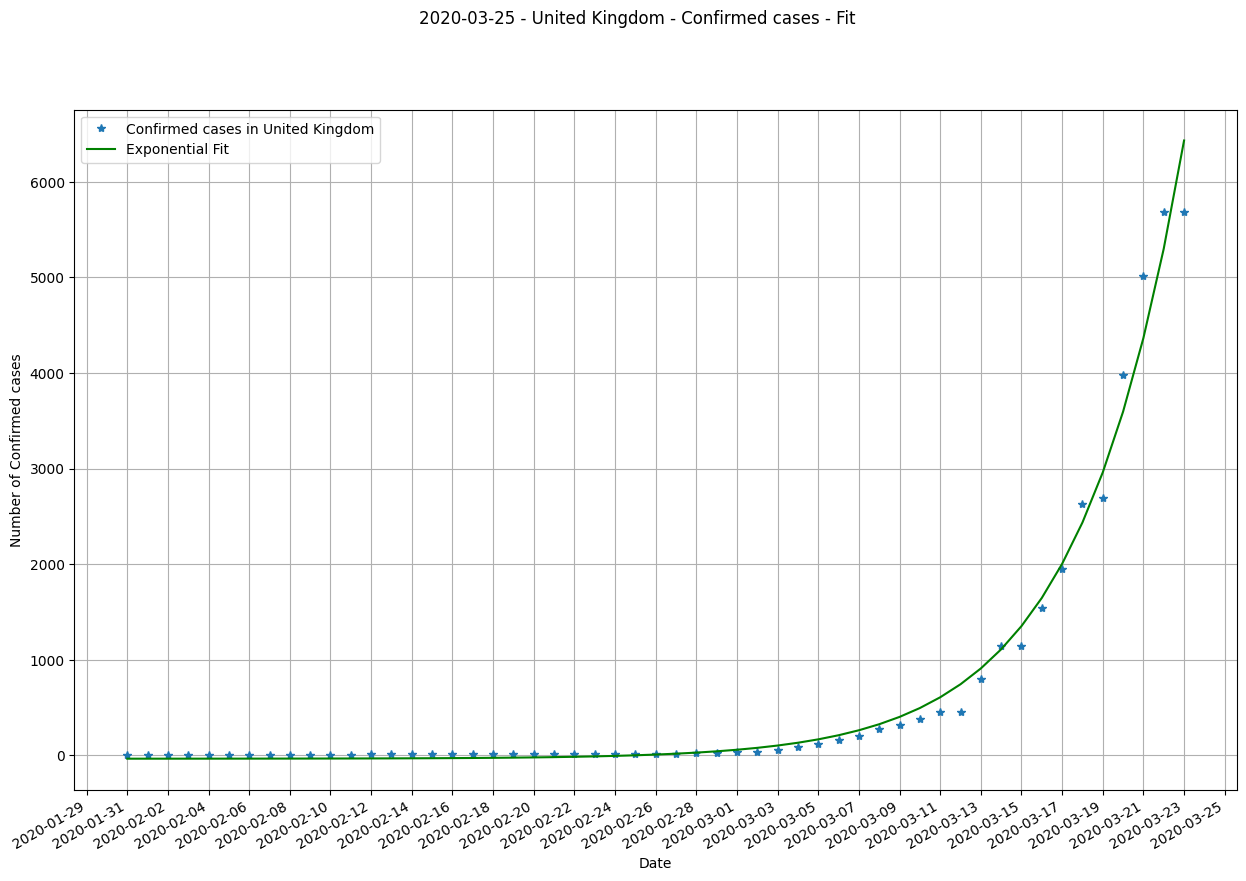
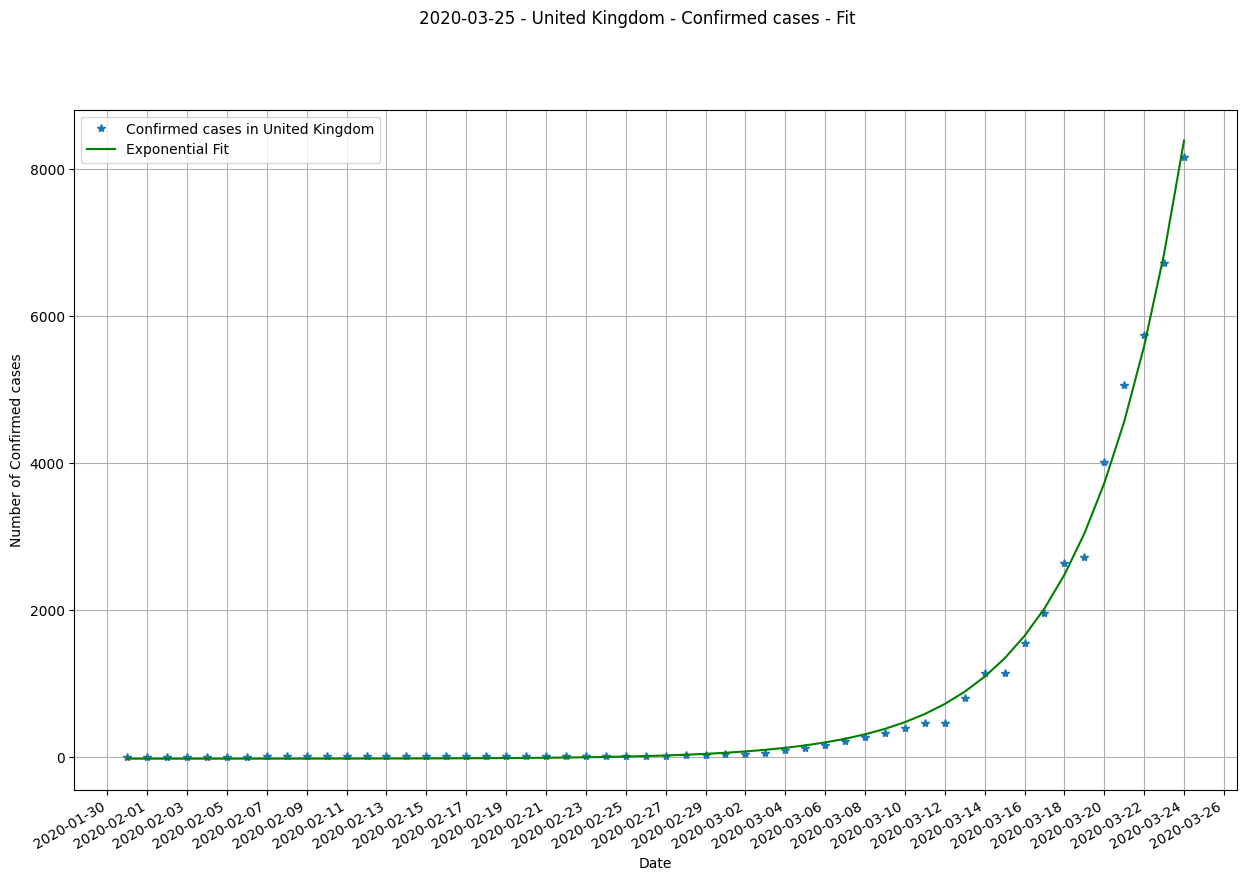
:card_file_box: Update data source

diff --git a/main.py b/main.py
@@ -12,8 +12,8 @@ from scipy.optimize import curve_fit
 import lmfit
 
 # CSV_FILENAME = "data/time_series_19-covid-Confirmed.csv"
-CSV_URL = "https://raw.githubusercontent.com/CSSEGISandData/COVID-19/master/csse_covid_19_data/csse_covid_19_time_series/time_series_19-covid-Confirmed.csv"
-CSV_URL_DEATHS = "https://raw.githubusercontent.com/CSSEGISandData/COVID-19/master/csse_covid_19_data/csse_covid_19_time_series/time_series_19-covid-Deaths.csv"
+CSV_URL = "https://raw.githubusercontent.com/CSSEGISandData/COVID-19/master/csse_covid_19_data/csse_covid_19_time_series/time_series_covid19_confirmed_global.csv"
+CSV_URL_DEATHS = "https://raw.githubusercontent.com/CSSEGISandData/COVID-19/master/csse_covid_19_data/csse_covid_19_time_series/time_series_covid19_deaths_global.csv"
 COUNTRY = "United Kingdom"
 COUNTRIES = [
     "all",
@@ -43,24 +43,38 @@ def get_data(url):
     print("Data downloaded")
     return df
 
+### Melt the dateframe into the right shape and set index
+def cleandata(df_raw):
+    df_cleaned=df_raw.melt(id_vars=['Province/State','Country/Region','Lat','Long'],value_name='Cases',var_name='Date')
+    df_cleaned=df_cleaned.set_index(['Country/Region','Province/State','Date'])
+    return df_cleaned
+    
+### Get Countrywise Data
+def countrydata(df_cleaned):
+    df_country=df_cleaned.groupby(['Country/Region','Date'])['Cases'].sum().reset_index()
+    df_country=df_country.set_index(['Country/Region','Date'])
+    df_country.index=df_country.index.set_levels([df_country.index.levels[0], pd.to_datetime(df_country.index.levels[1])])
+    df_country=df_country.sort_values(['Country/Region','Date'],ascending=True)
+    return df_country
 
 def generate_exponential_chart(df, country, title, pathdir):
-    # filter just one country
-    df = df[df["Country/Region"] == country]
-    df = df[df["Province/State"] == country]
-    df = df.drop(columns=["Country/Region", "Province/State", "Lat", "Long"])
-    df = df.iloc[0]  # convert to pd.Series
+    # Clean this up a bit
+    df = cleandata(df)
+
+    # And a bit more
+    df = countrydata(df)
+
+    df = df.loc[country]['Cases'].reset_index().set_index('Date')
 
     # start with first infections
     df = df[df.values != 0]
 
-    # parse to datetime
-    df.index = pd.to_datetime(df.index, format="%m/%d/%y")
+    things = [float(i) for i in df.values]
 
     # fit to exponential function
     time_in_days = np.arange(len(df.values))
     poptimal_exponential, pcovariance_exponential = curve_fit(
-        exponential, time_in_days, df.values, p0=[0.3, 0.205, 0]
+        exponential, time_in_days, things, p0=[0.3, 0.205, 0]
     )
 
     # Plot current DATA
@@ -95,8 +109,6 @@ def generate_exponential_chart(df, country, title, pathdir):
     df_prediction.index = pd.date_range(
         df.index[-1], periods=prediction_in_days + 1, closed="right"
     )
-
-    df_prediction = df.append(df_prediction)
 
     with pd.option_context("display.max_rows", None, "display.max_columns", None):
         print(df_prediction)
